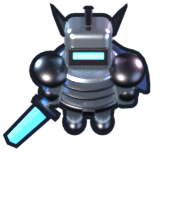
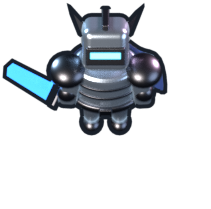
feat: raise the player's own sword toward the upper left
The plain and blessed player sprites now hold the short sword pointing
up to screen left, so they are told apart from the chimera-sword
sprites, which still hold their swords low. The upright blade is built
by hand with its width in the screen plane, as tube() turned its flat
edge-on, and the guard sits just past the fist.

Changed region(s): [[0.0, 0.0, 0.8757, 0.7177], [0.452, 0.0287, 0.5367, 0.0574]]

diff --git a/dev-samples/3d-stage1/build-heroic.py b/dev-samples/3d-stage1/build-heroic.py
@@ -564,7 +564,7 @@ def player(x, y, sword=None):
         # Broad pauldrons over the shoulders, and couters on the elbows.
         sphere('Player pauldron', (x + side * 0.27, y - 0.05, 0.63), (0.14, 0.14, 0.07), iron, 24)
         sphere('Player couter', (x + side * 0.275, y - 0.10, 0.46), (0.075, 0.07, 0.06), iron, 20)
-    # Short sword in the right hand (screen left), held low and outward.
+    # Sword in the right hand (screen left).
     hand = Vector((x - 0.30, y - 0.13, 0.34))
     if sword in ('c', 'C'):
         # The chimera's longer, tapering sword, with its own hilt. Held by
@@ -581,11 +581,28 @@ def player(x, y, sword=None):
         sphere('Player chimera sword pommel', tuple(hand - ahead * 0.10),
                (0.035 * size,) * 3, hilt, 12)
     else:
-        tip = hand + Vector((-0.34, -0.30, -0.10)) * 0.8
-        tube('Player sword blade', [hand + (tip - hand) * 0.12, tip * 0.94 + hand * 0.06, tip],
-             [(0.075, 0.016), (0.06, 0.014), 0], blade, sides=4)
-        tube('Player sword guard', [hand + Vector((0.07, -0.08, 0)),
-                                    hand + Vector((-0.08, 0.06, 0))],
+        # The player's own sword points up to screen left, unlike the
+        # chimeras' swords held low, so the states are told apart at a glance.
+        # Held at the fist, the bottom of the arm, with the guard moved a
+        # little along the blade so the fist grips the hilt, not the blade.
+        ahead = Vector((-0.75, 0.3, 0.25)).normalized()
+        hand = Vector((x - 0.29, y - 0.08, 0.34)) + ahead * 0.06
+        across = ahead.cross(Vector((0, -0.5, 0.87))).normalized()
+        tip = hand + ahead * 0.42
+        # Built by hand rather than with tube(), whose rings would turn the
+        # flat of this upright blade edge-on to the camera: the width runs
+        # along `across`, in the screen plane.
+        thick = across.cross(ahead)
+        vertices = []
+        for center, width, depth in ((hand + (tip - hand) * 0.12, 0.075, 0.016),
+                                     (tip * 0.94 + hand * 0.06, 0.06, 0.014)):
+            vertices += [tuple(center + across * width), tuple(center + thick * depth),
+                         tuple(center - across * width), tuple(center - thick * depth)]
+        vertices.append(tuple(tip))
+        faces = [(3, 2, 1, 0)] + [(k, (k + 1) % 4, (k + 1) % 4 + 4, k + 4) for k in range(4)]
+        faces += [(k + 4, (k + 1) % 4 + 4, 8) for k in range(4)]
+        mesh_object('Player sword blade', vertices, faces, blade, False)
+        tube('Player sword guard', [hand + across * 0.08, hand - across * 0.08],
              [0.025, 0.025], iron, sides=6)
     # Cloak: hugs the shoulders, drifts back and sideways toward the hem.
     columns, rows = 25, 8

diff --git a/dev-samples/3d-stage1/README.md b/dev-samples/3d-stage1/README.md
@@ -170,8 +170,8 @@ blender --background --threads 4 --python dev-samples/3d-stage1/export-sprites.p
 - ドラゴン類の比較: `preview-dragons.py` でコモドドラゴン `d`・ドラゴン `D`・ファイアドレイク `F`・ワーム `w`・ドレッドワーム `W` だけを並べた比較画像 `heroic/preview-dragons.png` を出力できる（`build-heroic.py` の後に実行する）。
 - オキュラー `o`: 仲間。浮かぶ大きな眼球。真珠色の白目、橙に光る虹彩と黒い瞳。瞳の真ん中には、ノミコンの目やループの輪と同じ水色の光を小さく置く。ジャイロスコープのような濃い緑の樹脂の輪2本で囲む。視線はカメラ（プレイヤー）へ向ける。
 - ループ `l`: ステージ3から登場する仲間。浮かぶ懐中時計。ノミコン・オキュラー・ペガサスと揃えた半透明の緑の樹脂の側（ケース）に、濃い緑の樹脂の縁・竜頭・吊り輪、象牙色の文字盤、目盛り（3・6・9・12時は濃い緑の樹脂）。時間を歪めるイメージで、紺の針2本を口ひげの形にする。左へ伸びる時針は、一度上がってから上を回り込んで下を向き、また上へ向かう。分針は時針を左右反転して1.15倍にした形で、右へ伸びる（文字盤からははみ出させない）。時間を巻き戻すことを示すため、目盛りの内側に水色に光る輪を置き、反時計回りの矢じりを付ける。文字盤はカメラへ向ける。
-- プレイヤー: 当初の2等身・足なしから、エルフと並べたときに背が低すぎたため3等身に変えた。頭（高さ0.34）・円筒形の胴・脚がほぼ同じ高さで、脚の先に前への出っ張りが小さいブーツを付ける。エルフやステージ5のメンバーと並べたときに体の角度が揃うよう、エルフと同じく体を縦に1.3倍に伸ばし（`ELF_STRETCH`）、頭は首でエルフと同じ0.6ラジアン後ろへ傾けて、バイザーをカメラへ向ける（以前は引き伸ばさず頭を0.35ラジアン傾けていたが、ジェスターと並べると上から見下ろしたように見えたため揃えた）。画面下向きの構成は維持する。見た目は宇宙服のような半透明の結晶から甲冑風に変え、兜・胴・腕・脚を青みがかった鋼の板金にする。兜の正面は暗い鉄の面に目の窓を開け、そこだけを淡い水色に光らせる（窓は本物の兜の切れ込みより大きめにし、スプライトの大きさでも顔が読めるようにする）。頭頂には前から後ろへ走る鉄の稜線（とさか）、胴には板金の継ぎ目の細い鉄の帯を2本付ける。肩には腕の付け根を覆う大きな鉄の肩当て、肘には丸い鉄の肘当てを付ける。胴はドラム缶に見えないよう、上から見て横長の楕円にする（前後を0.72倍、`player()` の `flat`。ベルト・継ぎ目の帯・肩まわりのマントもそれに合わせる）。結晶の兜に光るバイザーと飾り、肩当て、ベルトを付け、マントを黒に近い紺色にして裾を縁取り、裾の広がりは控えめにする（当初は深紅だったが、足元の円盤でLPの減少を示す黄色・赤が目立たなくなるため変更した）。飾り・肩当て・ベルト・バックル・縁取り・剣の鍔は黒っぽい鉄。右手に鉄の短剣を低く構える（当初の光る刃から灰色の鉄に変え、長さを0.8倍にした）。刃は先端近くまで幅が広い四角いシルエット。頭の `@` はモデルからも取り除いた。
-  - 剣の状態による別の姿（`player(x, y, sword)`）: キメラの剣（`c` の白い剣、`C` の赤く光る黒い剣）を持っている間は、自分の短剣の代わりにその剣を鍔と柄頭ごと右手に持つ（`player-sword.png`、`player-cursed-sword.png`）。この剣は画面上で剣を持っている状態の表示も兼ねるため、キメラが口にくわえている剣の1.3倍の大きさにする（キメラ側の剣の大きさは変えない）。キメラの剣を持たずに収集のエルフ `K` の強化を受けている間は、自分の短剣の刃が青く光る（`player-blessed.png`）。スプライト版は `sprite_funcs.py` の `_player_sprite()` で主人公の状態から画像を選び、キメラの剣を優先する。画像がない場合は通常の `player.png`。
+- プレイヤー: 当初の2等身・足なしから、エルフと並べたときに背が低すぎたため3等身に変えた。頭（高さ0.34）・円筒形の胴・脚がほぼ同じ高さで、脚の先に前への出っ張りが小さいブーツを付ける。エルフやステージ5のメンバーと並べたときに体の角度が揃うよう、エルフと同じく体を縦に1.3倍に伸ばし（`ELF_STRETCH`）、頭は首でエルフと同じ0.6ラジアン後ろへ傾けて、バイザーをカメラへ向ける（以前は引き伸ばさず頭を0.35ラジアン傾けていたが、ジェスターと並べると上から見下ろしたように見えたため揃えた）。画面下向きの構成は維持する。見た目は宇宙服のような半透明の結晶から甲冑風に変え、兜・胴・腕・脚を青みがかった鋼の板金にする。兜の正面は暗い鉄の面に目の窓を開け、そこだけを淡い水色に光らせる（窓は本物の兜の切れ込みより大きめにし、スプライトの大きさでも顔が読めるようにする）。頭頂には前から後ろへ走る鉄の稜線（とさか）、胴には板金の継ぎ目の細い鉄の帯を2本付ける。肩には腕の付け根を覆う大きな鉄の肩当て、肘には丸い鉄の肘当てを付ける。胴はドラム缶に見えないよう、上から見て横長の楕円にする（前後を0.72倍、`player()` の `flat`。ベルト・継ぎ目の帯・肩まわりのマントもそれに合わせる）。結晶の兜に光るバイザーと飾り、肩当て、ベルトを付け、マントを黒に近い紺色にして裾を縁取り、裾の広がりは控えめにする（当初は深紅だったが、足元の円盤でLPの減少を示す黄色・赤が目立たなくなるため変更した）。飾り・肩当て・ベルト・バックル・縁取り・剣の鍔は黒っぽい鉄。右手の鉄の短剣は、刃先を画面の左上へ向けて構える（当初の光る刃から灰色の鉄に変え、長さを0.8倍にした。以前は低く画面の左下へ向けていたが、キメラの剣を持つ姿と見分けやすいよう向きを変えた）。拳が刃を握って見えないよう、鍔は腕の先の拳から刃の方向へ少しずらして置き、刃は60度の見下ろしで短く縮まないよう少し奥へ倒す。刃は `tube()` だと幅が奥行きの方向を向いて細い三角に見えるため、幅を画面に平行な向きにして直接作る。刃は先端近くまで幅が広い四角いシルエット。頭の `@` はモデルからも取り除いた。
+  - 剣の状態による別の姿（`player(x, y, sword)`）: キメラの剣（`c` の白い剣、`C` の赤く光る黒い剣）を持っている間は、自分の短剣の代わりにその剣を鍔と柄頭ごと右手に持つ（`player-sword.png`、`player-cursed-sword.png`）。この剣は画面上で剣を持っている状態の表示も兼ねるため、キメラが口にくわえている剣の1.3倍の大きさにする（キメラ側の剣の大きさは変えない）。キメラの剣は従来どおり低く画面の左下へ向ける。キメラの剣を持たずに収集のエルフ `K` の強化を受けている間は、左上へ向けた自分の短剣の刃が青く光る（`player-blessed.png`）。スプライト版は `sprite_funcs.py` の `_player_sprite()` で主人公の状態から画像を選び、キメラの剣を優先する。画像がない場合は通常の `player.png`。
 
 ```bash
 blender --background --threads 4 --python dev-samples/3d-stage1/build-heroic.py
